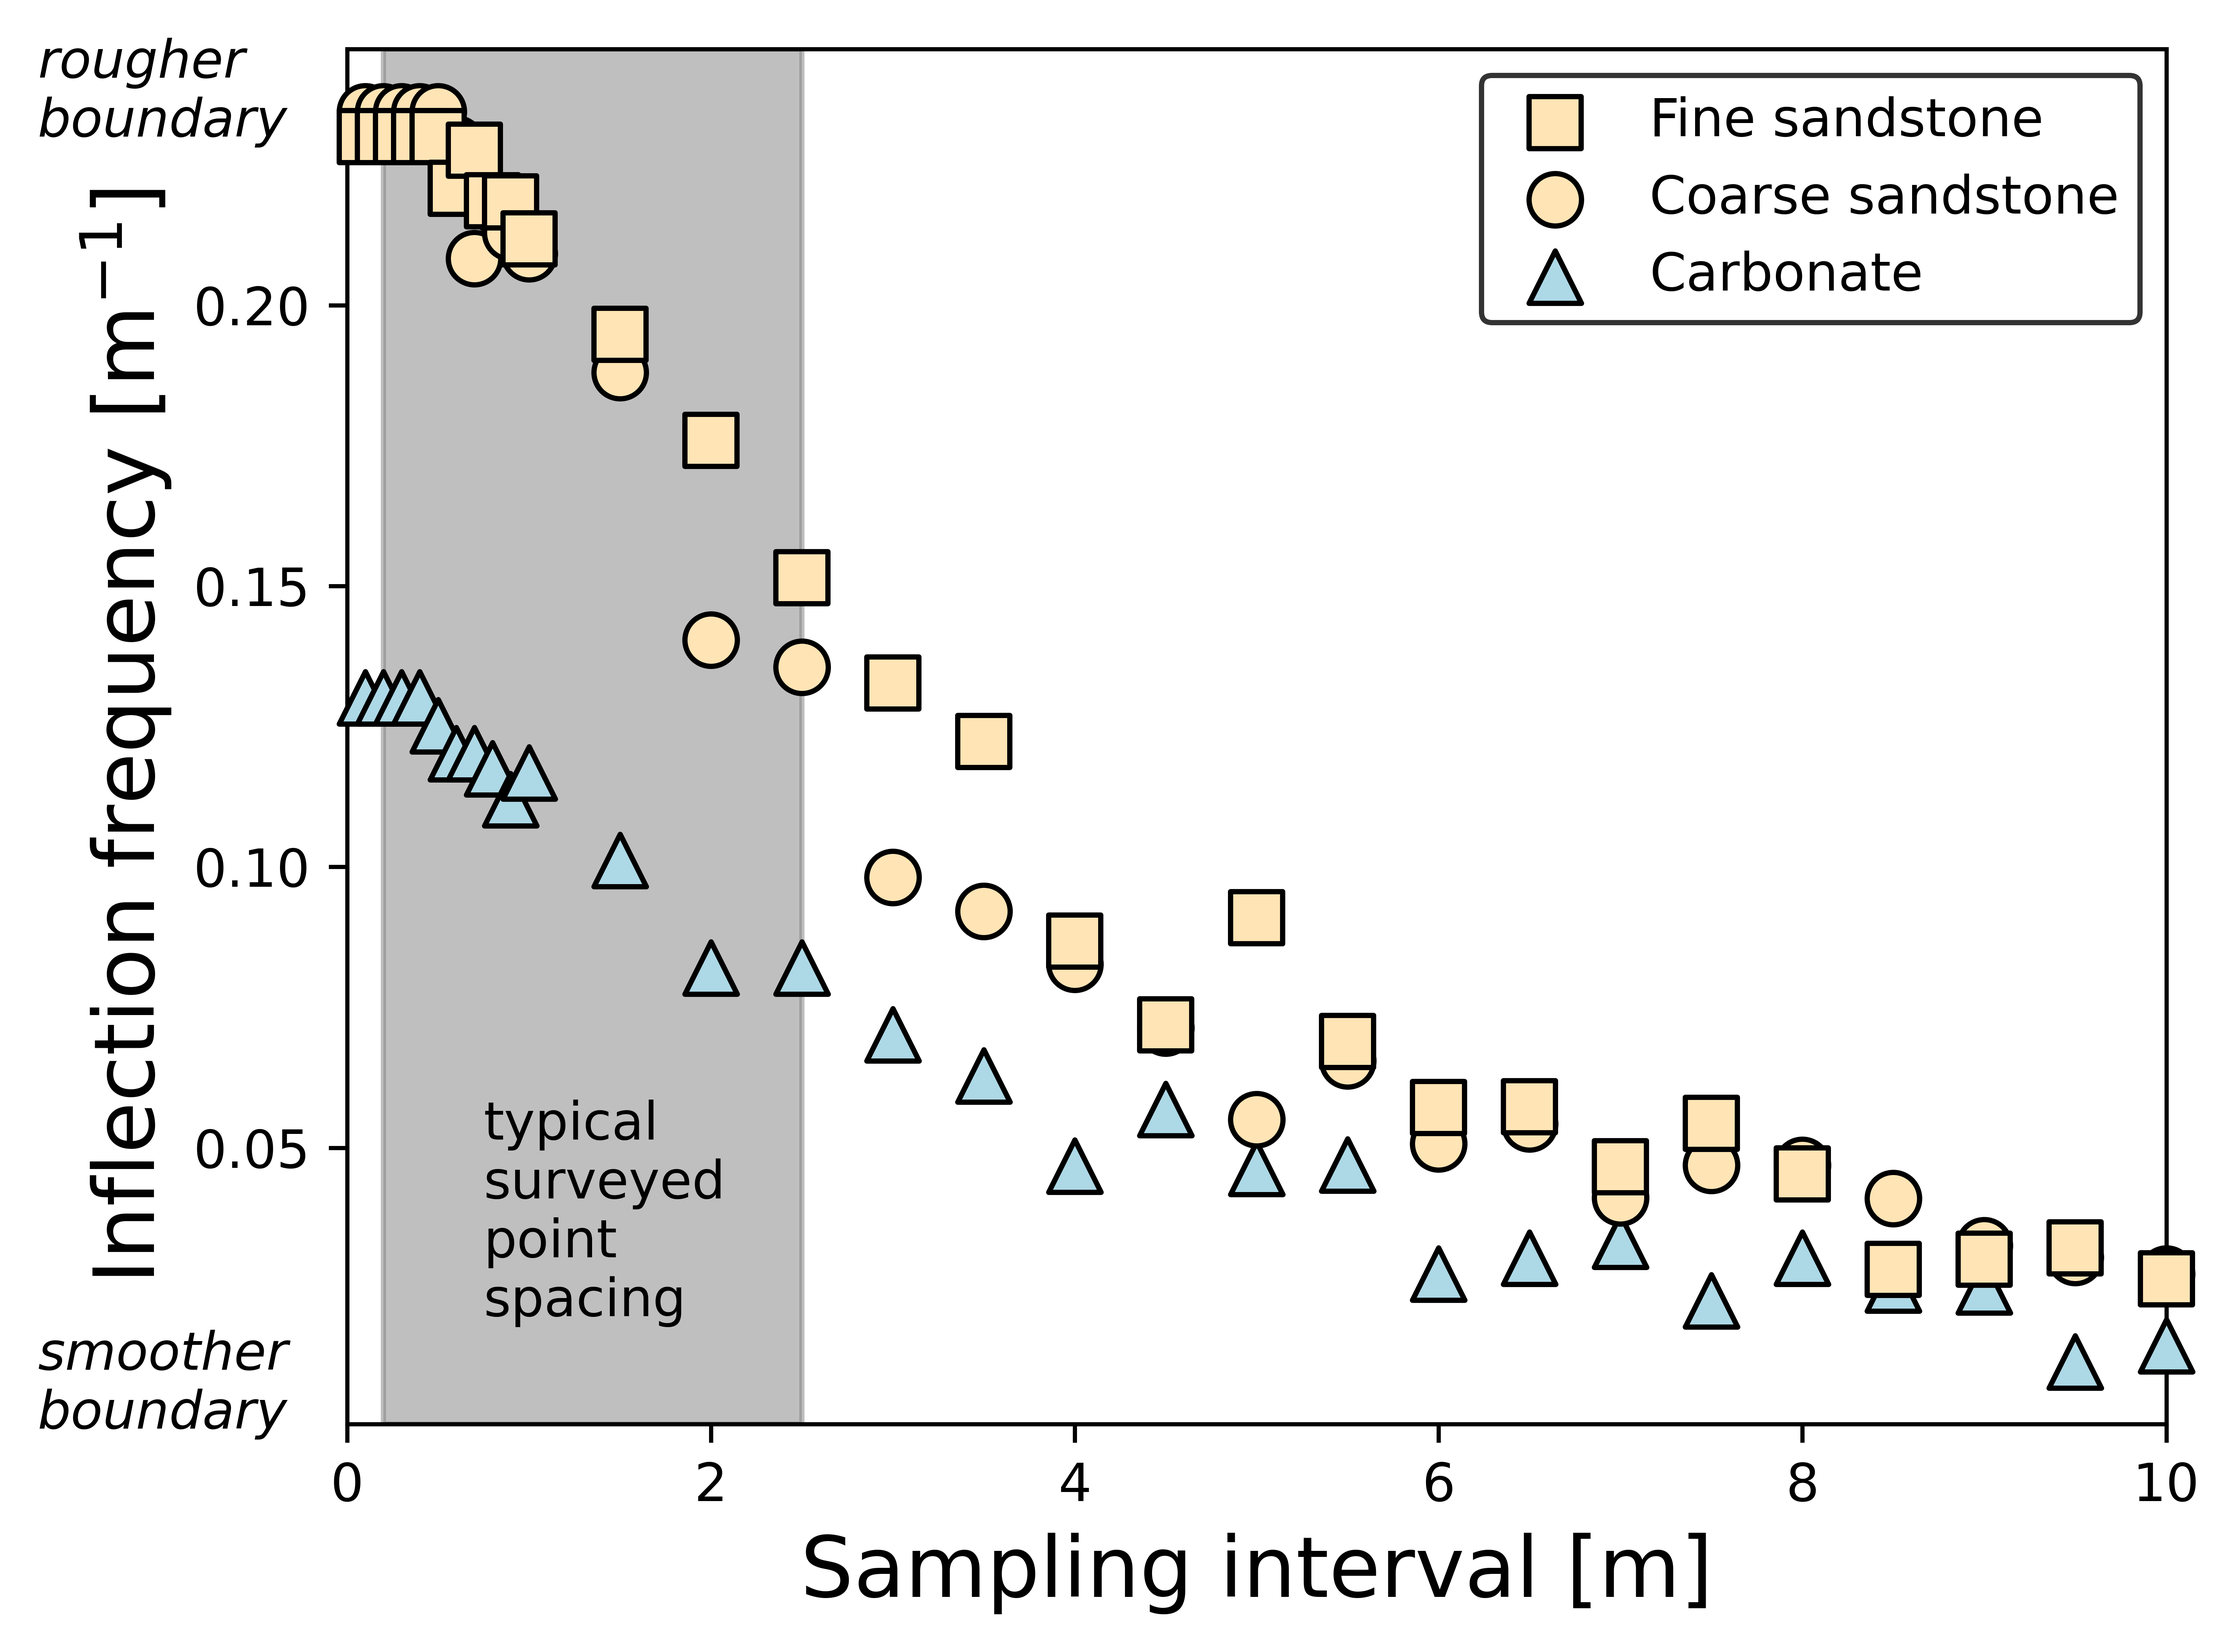
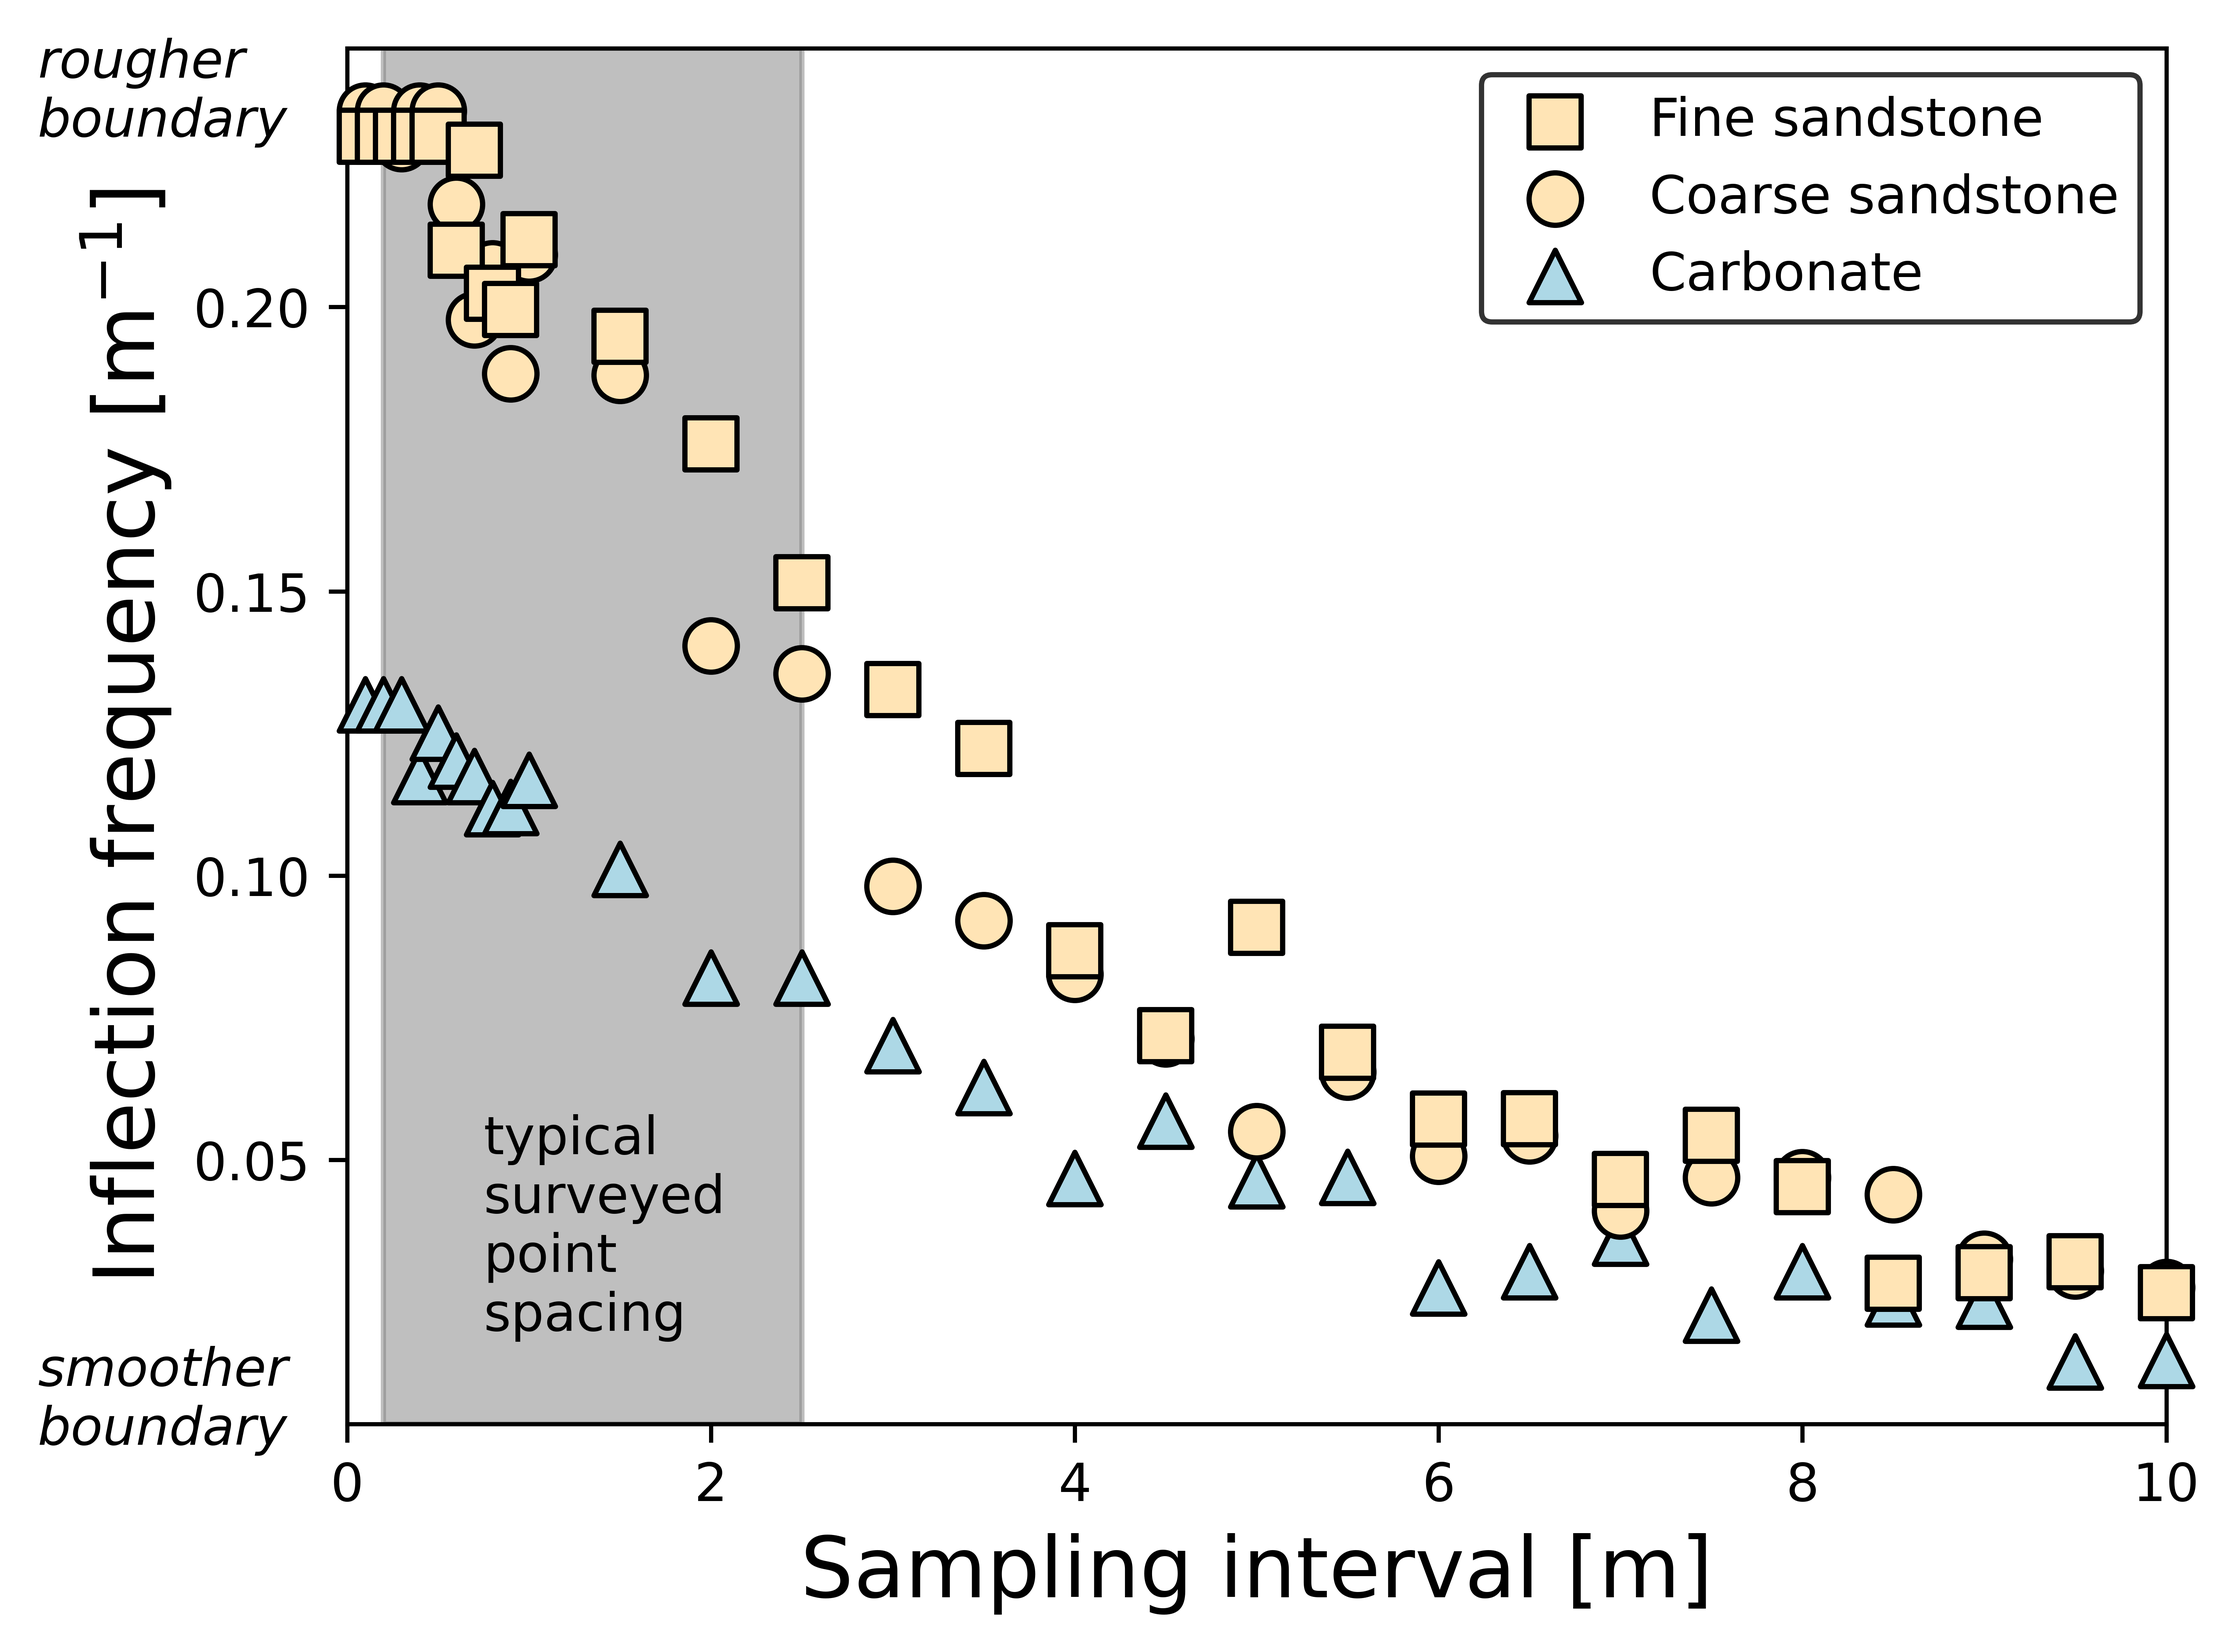
densify xs to decimeter res

diff --git a/code/plot_fig11_hypsometry.py b/code/plot_fig11_hypsometry.py
@@ -81,39 +81,28 @@ save_carb_elevs_uniform_banks = np.array([])
 save_coarse_elevs_uniform_banks = np.array([])
 save_fine_elevs_uniform_banks = np.array([])
 
-#interpolate cross-sections to dx resolution, then resample to sample_spacing
-
-dx = 0.01
+#interpolate cross-sections to dx resolution
+dx = 0.1
 
 for i in range(len(list_of_dfs)):
     df = list_of_dfs[i]
     xnew, znew = densify_xs(df, dx)
-    
-    #sample densified xs at known spacing
-    sample_spacing = 0.1 #m
-    factor = 100
-    sample_spacing *= factor
-    xnew *= factor
-    sampled_x = xnew[xnew % sample_spacing == 0]
-    sampled_x /= factor
-    
-    sampled_z = znew[xnew % sample_spacing == 0]
 
     #decimate to cut out bank elevations that were not surveyed on both banks
     if i == 20:
-        sampled_z_uniform_banks = sampled_z[sampled_z < np.minimum(sampled_z[1], sampled_z[-1])]
+        sampled_z_uniform_banks = znew[znew < np.minimum(znew[1], znew[-1])]
     else:
-        sampled_z_uniform_banks = sampled_z[sampled_z < np.minimum(sampled_z[0], sampled_z[-1])]
+        sampled_z_uniform_banks = znew[znew < np.minimum(znew[0], znew[-1])]
 
     
     if i < 10: #data is carbonate
-        save_carb_elevs = np.concatenate((save_carb_elevs, sampled_z))
+        save_carb_elevs = np.concatenate((save_carb_elevs, znew))
         save_carb_elevs_uniform_banks = np.concatenate((save_carb_elevs_uniform_banks, sampled_z_uniform_banks))
     elif (i >= 10) and (i < 20):
-        save_coarse_elevs = np.concatenate((save_coarse_elevs, sampled_z))
+        save_coarse_elevs = np.concatenate((save_coarse_elevs, znew))
         save_coarse_elevs_uniform_banks = np.concatenate((save_coarse_elevs_uniform_banks, sampled_z_uniform_banks))
     elif i >= 20:
-        save_fine_elevs = np.concatenate((save_fine_elevs, sampled_z))
+        save_fine_elevs = np.concatenate((save_fine_elevs, znew))
         save_fine_elevs_uniform_banks = np.concatenate((save_fine_elevs_uniform_banks, sampled_z_uniform_banks))
     else:
         print('no condition satisfied! check code')
@@ -158,8 +147,8 @@ fig2.savefig('../figures/fig11_xs_hypsometry.png', dpi = 1000, bbox_inches = 'ti
 
 
 #statistical testing to assess whether distributions differ among rock units
-kw = kruskal(save_carb_elevs, save_coarse_elevs, save_fine_elevs)
-dunns = scikit_posthocs.posthoc_dunn([save_carb_elevs, save_coarse_elevs, save_fine_elevs], p_adjust = 'bonferroni')
+kw = kruskal(save_carb_elevs_uniform_banks, save_coarse_elevs_uniform_banks, save_fine_elevs_uniform_banks)
+dunns = scikit_posthocs.posthoc_dunn([save_carb_elevs_uniform_banks, save_coarse_elevs_uniform_banks, save_fine_elevs_uniform_banks], p_adjust = 'bonferroni')
 
 #combine coarse and fine sandstone data to assess carbonate versus sandstone
 all_ss_elevs_uniform_banks = np.concatenate((save_coarse_elevs_uniform_banks, save_fine_elevs_uniform_banks), axis = 0)

diff --git a/code/plot_fig12_roughness.py b/code/plot_fig12_roughness.py
@@ -80,7 +80,7 @@ spacings = np.array([0.1, 0.2, 0.3, 0.4, 0.5, 0.6, 0.7, 0.8, 0.9,
 #create data structure to hold output: n_spacings x n_dfs
 inflection_data = np.zeros((len(spacings), 30))
 
-dx = 0.01
+dx = 0.1
 
 for j in range(len(spacings)):
     #iterate through the 30 cross-sections, calculating the number of inflection points in each one (at a given resampling scale)
